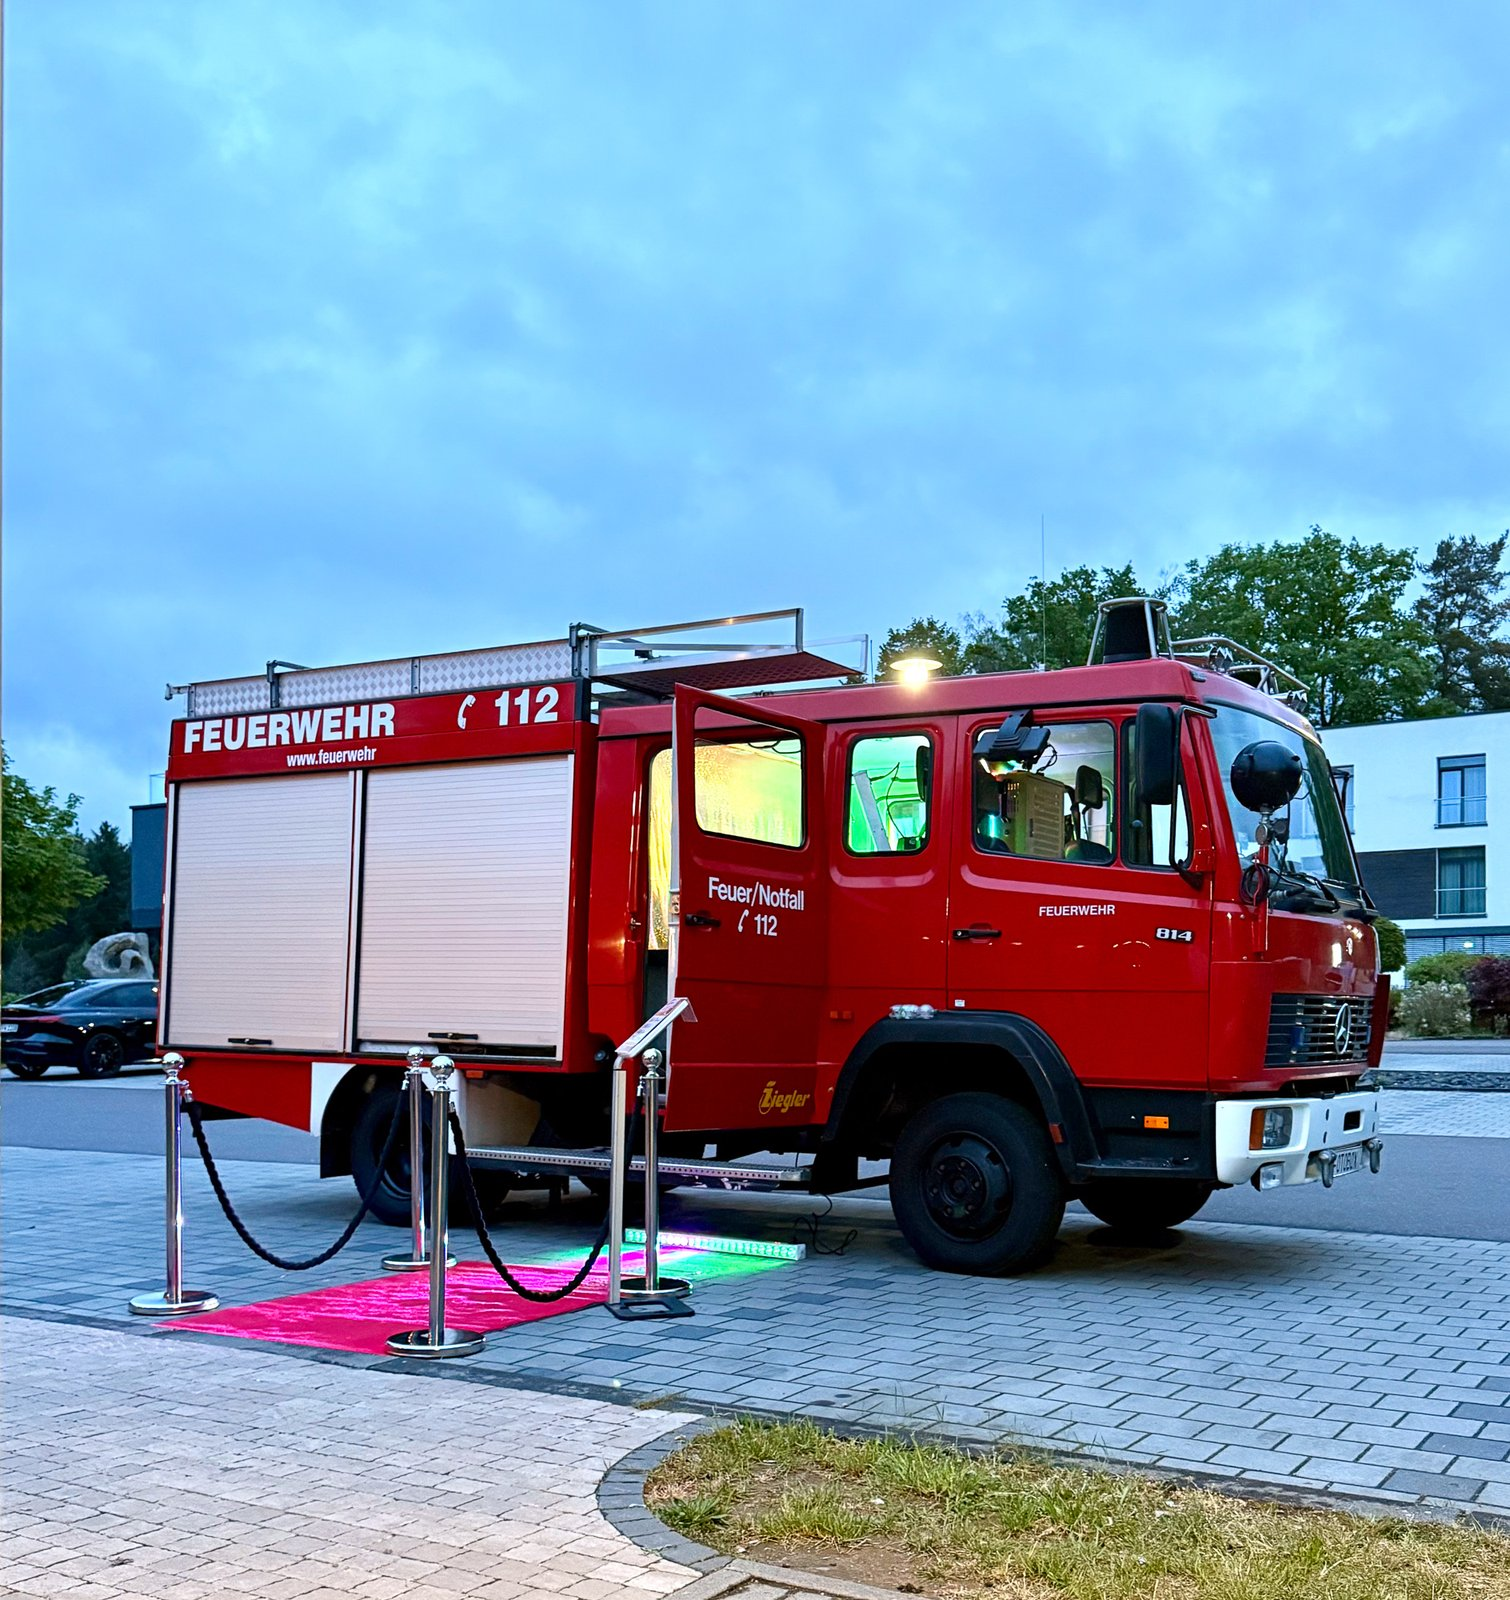
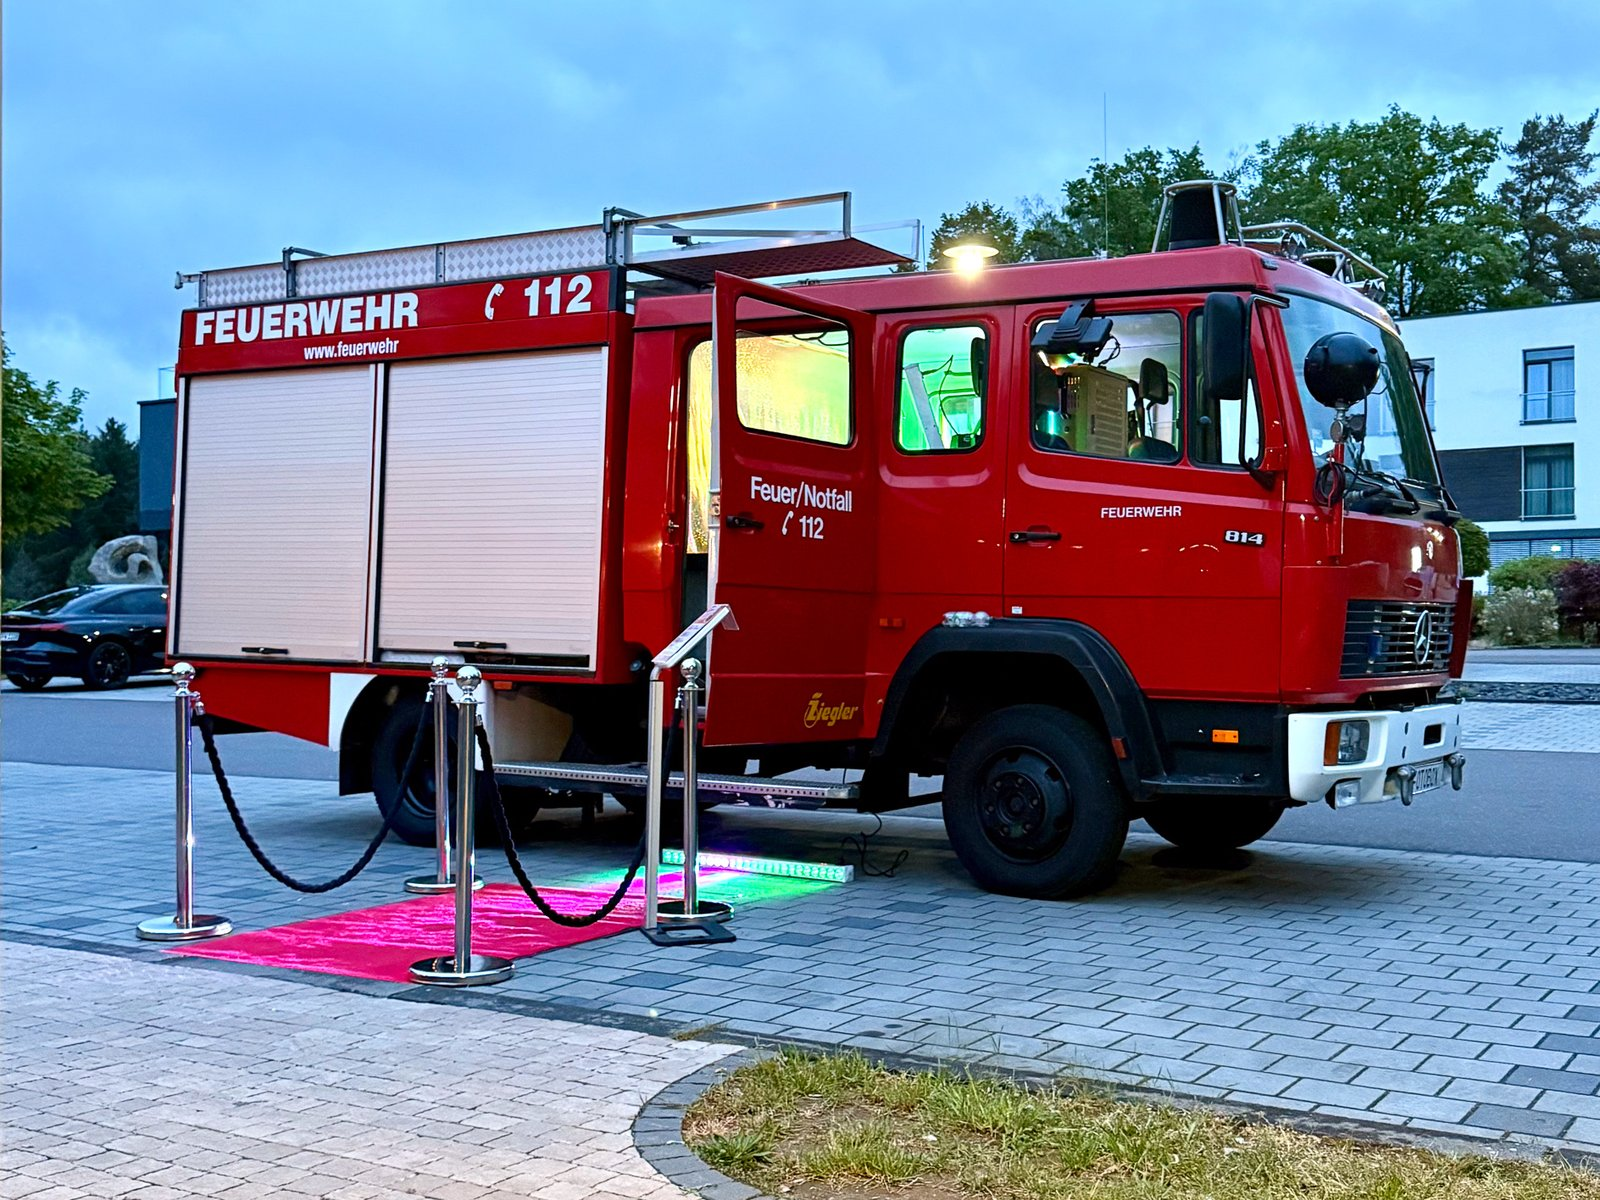
Preisliste: Eventbilder auf 4:3 + Roter-Teppich-Crop optimiert

diff --git a/06_Website_fotobus_saarland/preise.html b/06_Website_fotobus_saarland/preise.html
@@ -51,7 +51,7 @@
 
       <!-- PAKET 1 — Eventabend 4h -->
       <div class="price-card">
-        <img src="/assets/img/event-05-roter-teppich-800.jpg" alt="Premium-Empfang am Bus — roter Teppich, Stanchions, LED-Akzente in der Blue Hour" style="width: calc(100% + 3.5rem); margin: -2rem -1.75rem 1.5rem; aspect-ratio: 16/9; object-fit: cover; border-radius: 8px 8px 0 0;">
+        <img src="/assets/img/event-05-roter-teppich-800.jpg" alt="Premium-Empfang am Bus — roter Teppich, Stanchions, LED-Akzente in der Blue Hour" style="width: calc(100% + 3.5rem); margin: -2rem -1.75rem 1.5rem; aspect-ratio: 4/3; object-fit: cover; border-radius: 8px 8px 0 0;">
         <h3>Eventabend</h3>
         <p style="color: var(--grey); font-size: 0.95rem; margin: 0 0 1rem;">Bis 4 Stunden — perfekt für Hochzeit, Geburtstag &amp; private Feiern</p>
         <div class="price">990&nbsp;€<small>zzgl. MwSt. · bis 4 Stunden</small></div>
@@ -73,7 +73,7 @@
 
       <!-- PAKET 2 — Tagesevent 8h -->
       <div class="price-card featured">
-        <img src="/assets/img/event-04-moebel-ehrmann-800.jpg" alt="Tag der offenen Tür bei Möbel Ehrmann — Familien beim Fotobus, Schlangen-Effekt am Tageslicht" style="width: calc(100% + 3.5rem); margin: -2rem -1.75rem 1.5rem; aspect-ratio: 16/9; object-fit: cover; border-radius: 8px 8px 0 0;">
+        <img src="/assets/img/event-04-moebel-ehrmann-800.jpg" alt="Tag der offenen Tür bei Möbel Ehrmann — Familien beim Fotobus, Schlangen-Effekt am Tageslicht" style="width: calc(100% + 3.5rem); margin: -2rem -1.75rem 1.5rem; aspect-ratio: 4/3; object-fit: cover; border-radius: 8px 8px 0 0;">
         <h3>Tagesevent</h3>
         <p style="color: var(--grey); font-size: 0.95rem; margin: 0 0 1rem;">Bis 8 Stunden — für Firmenfeiern, Messen, Stadtfeste &amp; große Events</p>
         <div class="price">1.590&nbsp;€<small>zzgl. MwSt. · bis 8 Stunden</small></div>